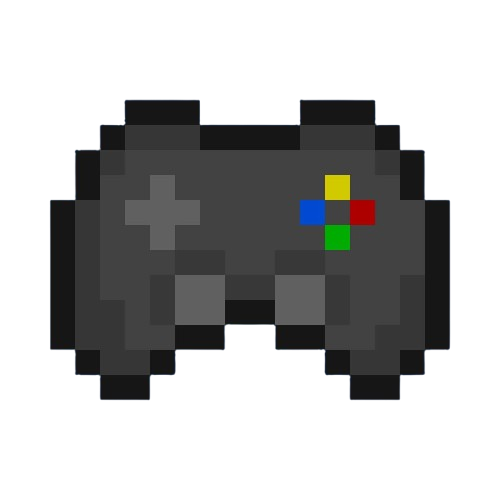
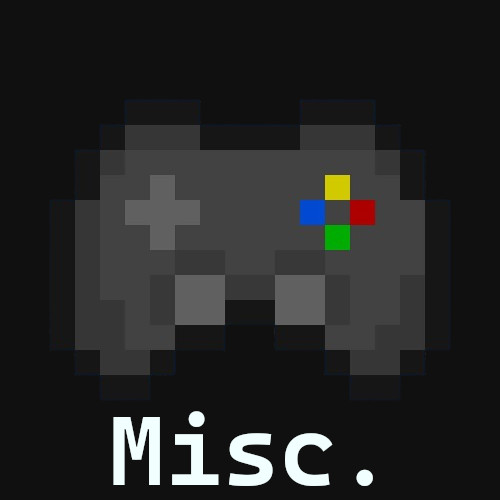
Image fixes

diff --git a/arcade/page.html b/arcade/page.html
@@ -30,9 +30,9 @@ function openGame(game) {
 
     <body>
         <div class="flex-box">
-        <div class="gameButton"><button onclick="openGame('tetris')"> <img src="images/tetris.jpg"></button></div>
-        <div class="gameButton"><button onclick="openGame('pacman')"> <img src="images/pacman.jpg"></button></div>
-        <div class="gameButton"><button onclick="openGame('pong')"> <img src="images/pong.jpg"></button></div>
+        <div class="gameButton"><button onclick="openGame('tetris')"> <img src="../images/tetris.jpg"></button></div>
+        <div class="gameButton"><button onclick="openGame('pacman')"> <img src="../images/pacman.jpg"></button></div>
+        <div class="gameButton"><button onclick="openGame('pong')"> <img src="../images/pong.jpg"></button></div>
         <!--Rom End-->
         </div>
     </body>
